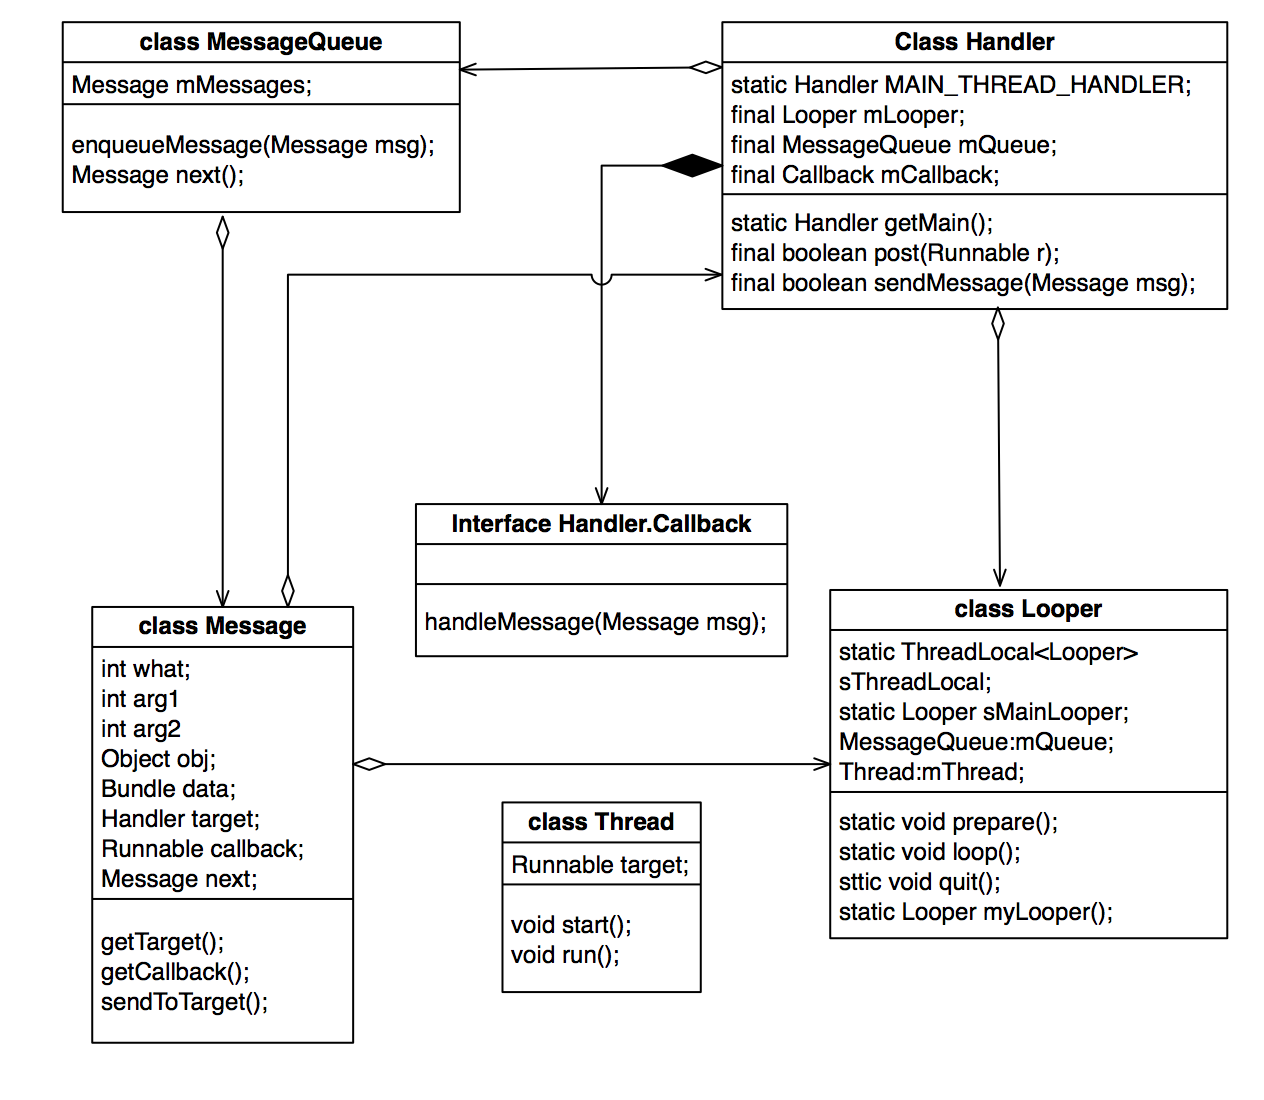
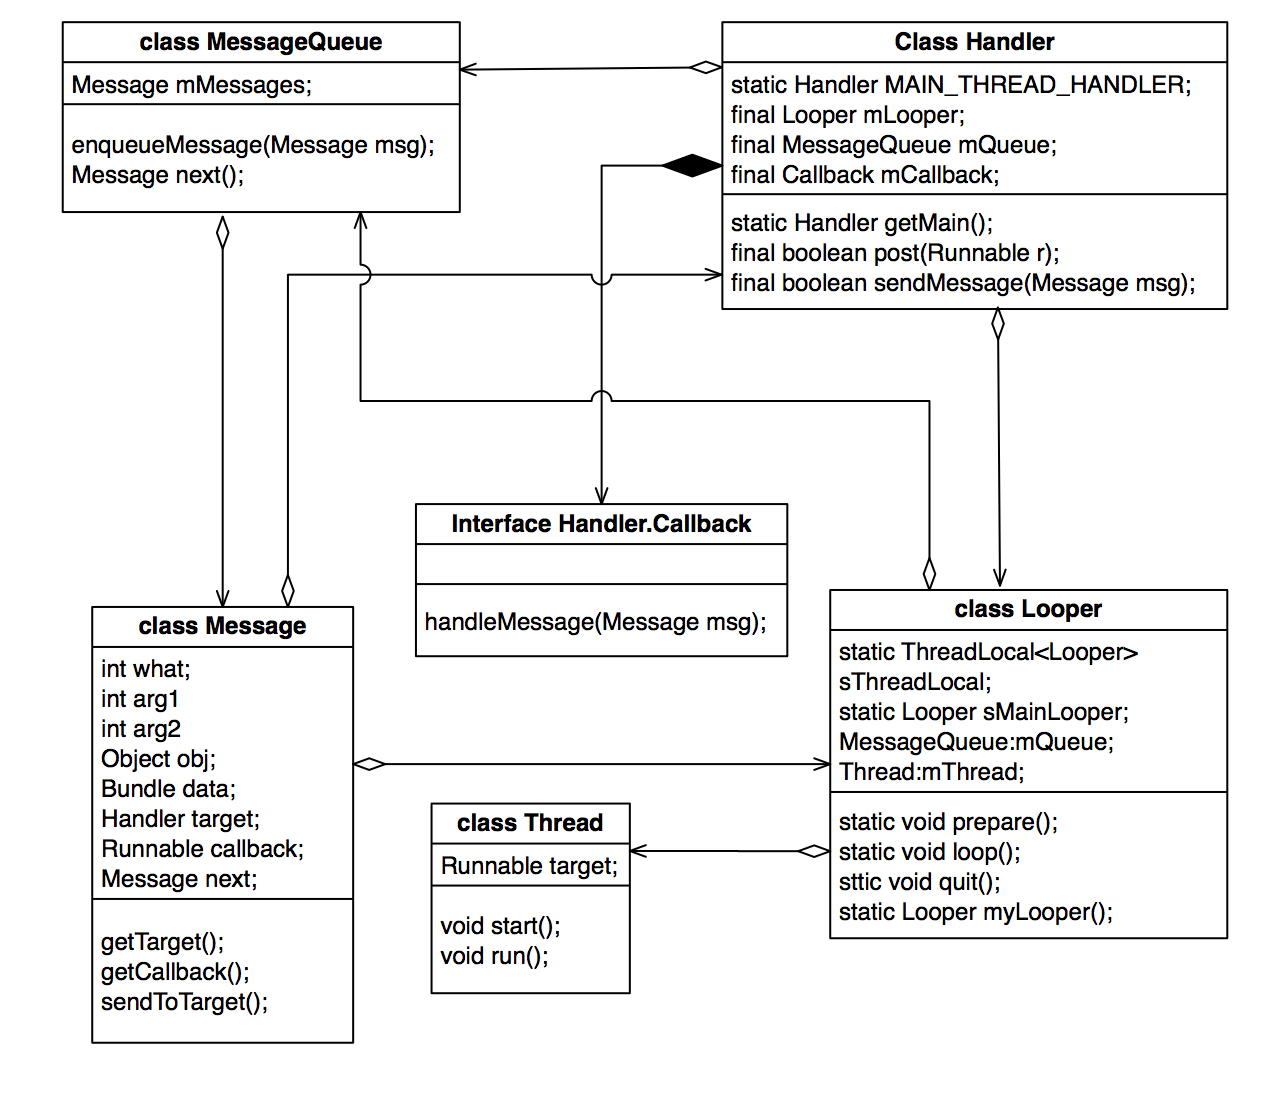
类图更新
更新UML图

diff --git a/Android消息机制.md b/Android消息机制.md
@@ -1,0 +1,46 @@
+# Android消息机制
+
+这一定是一个被写烂了的专题吧。那本媛也来凑一个热闹吧。哈哈  
+这篇博客将会涉及以下内容：
+
+* 消息机制概述
+* UML图解消息机制相关类
+* Handler
+* Looper
+* MessageQueue和Message
+* 消息机制的应用
+
+##消息机制概述
+Android系统在设计的初期就已经考虑到了UI的更新问题，由于Android中的View是线程不安全的，然而程序中异步处理任务结束后更新UI元素也是必须的。这就造成了一个矛盾，最简单的解决方法肯定是给View加同步锁使其变成线程安全的。这样做不是不可以，只是会有两点坏处：  
+
+1. 加锁会有导致效率底下
+2. 由于可以在多个地方更新UI，开发就必须很小心操作，开发起来就很麻烦，一不小心就出错了。
+
+基于以上两个缺点，这种方式被抛弃。于是机智如我谷歌爸爸。。。设置一个线程专门处理UI控件的更新，如果其他线程也需要对UI进行更新，不好意思，您把您想做的告诉那个专门处理UI线程的家伙，让它帮你做。大家各有各的任务，井水不犯河水，各司其职，效率才会高，不仅仅对于软件如此，人也是如此，我只管写我的代码，有农民伯伯帮我种吃的、有电脑公司卖给我电脑、有建筑公司给我盖房子（当然了，房子我是万万买不起的... 哼！），这些事儿好像自己也能干，但是都自己干好像就回到了远古时代，人类的进步和发展和社会分工的明确也是离不开的，而且关系很大！
+好像扯的有点远了。
+
+那么您也看出来了，消息机制其实可以很简单的用一句话概括，就是：其他线程通过给特定线程发送消息，将某项专职的工作，交给这个特定的线程去做。比如说其他线程都把处理UI显示的工作通过发送消息交给UI线程去做。
+
+这样理解起来是不是就是so easy了呢？
+
+##UML图解消息机制相关类
+
+不知道上面的说法您是否可以对消息机制有了一个基本的认知呢？我曾经在想，怎么通过很简洁直观的方式去把消息机制讲明白（讲给自己，也讲给你）呢，后来我就在想，当初设计者的思路是什么样的呢？我想到了UML图，用类图来对消息机制中涉及到的几个类有一个概括的认识；通过时序图，可以很清晰的观察到整个消息机制的处理过程。  
+消息主要设计到下面几个类：
+
+* Handler：这是消息的发出的地方，也是消息处理的地方。
+* Looper：这是检测消息的地方。
+* MessageQueue:这是存放消息的地方，Handler把消息发到了这里，Looper从这里取出消息交给Handler进行处理
+* Message：呜呜呜...他们发的是我，处理的也是我。
+* Thread：我在这里专门指代的是，处理消息的线程。消息的发送是在别的线程。
+
+话不多说，先来看一张图（UML忘的差不多了，刚补的，如果有错误，麻烦大家指出）
+
+[消息机制类图](https://raw.githubusercontent.com/coding0man/Android-/master/attachment/MessageClassesUML.png)
+
+图在这里了，怎么看呢，麻烦您先看一下这些类的聚合关系，你会发现，Handler真的是个核心，他几乎拥有所有相关对象的引用。
+
+
+* Handler拥有Looper的引用，通过得到Looper对象获得Looper中保存的MessageQueue对象
+* Handler拥有MessageQueue的引用，使Handler得以拥有发送消息（将Message放入MessageQueue）的能力
+* Handler拥有Handler.Callback的引用，使得Handler可以方便的进行消息的处理。
